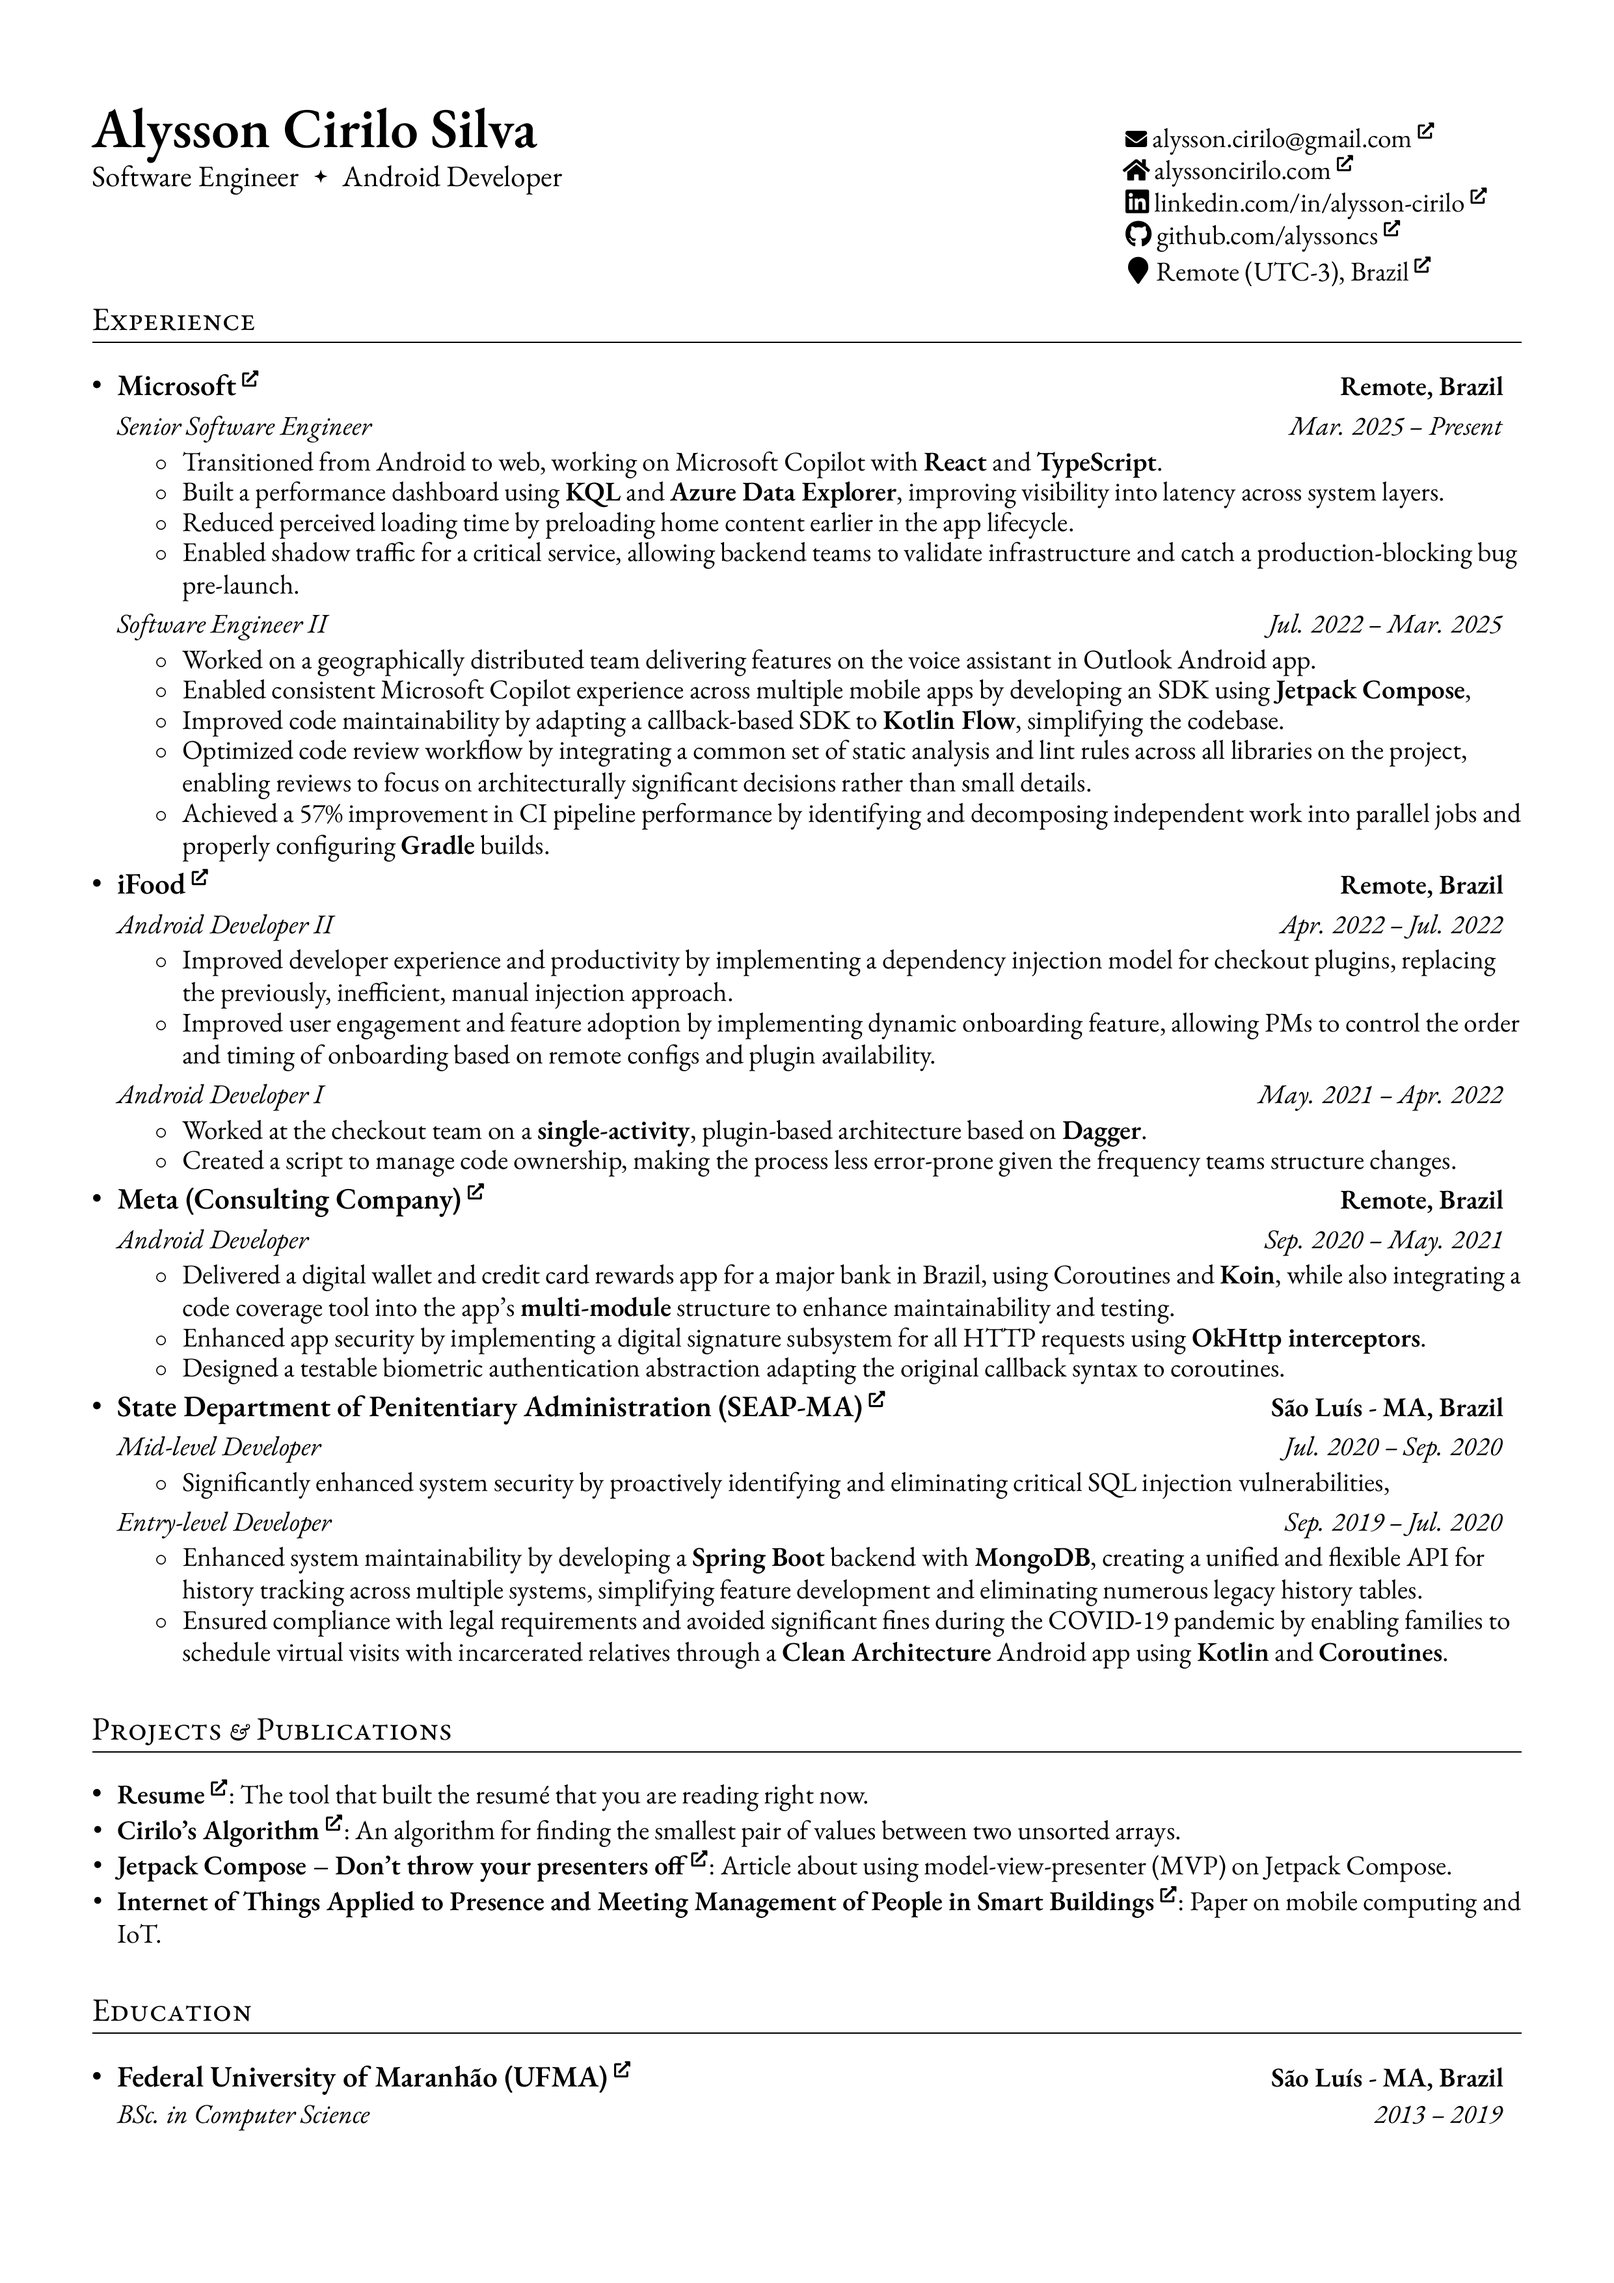
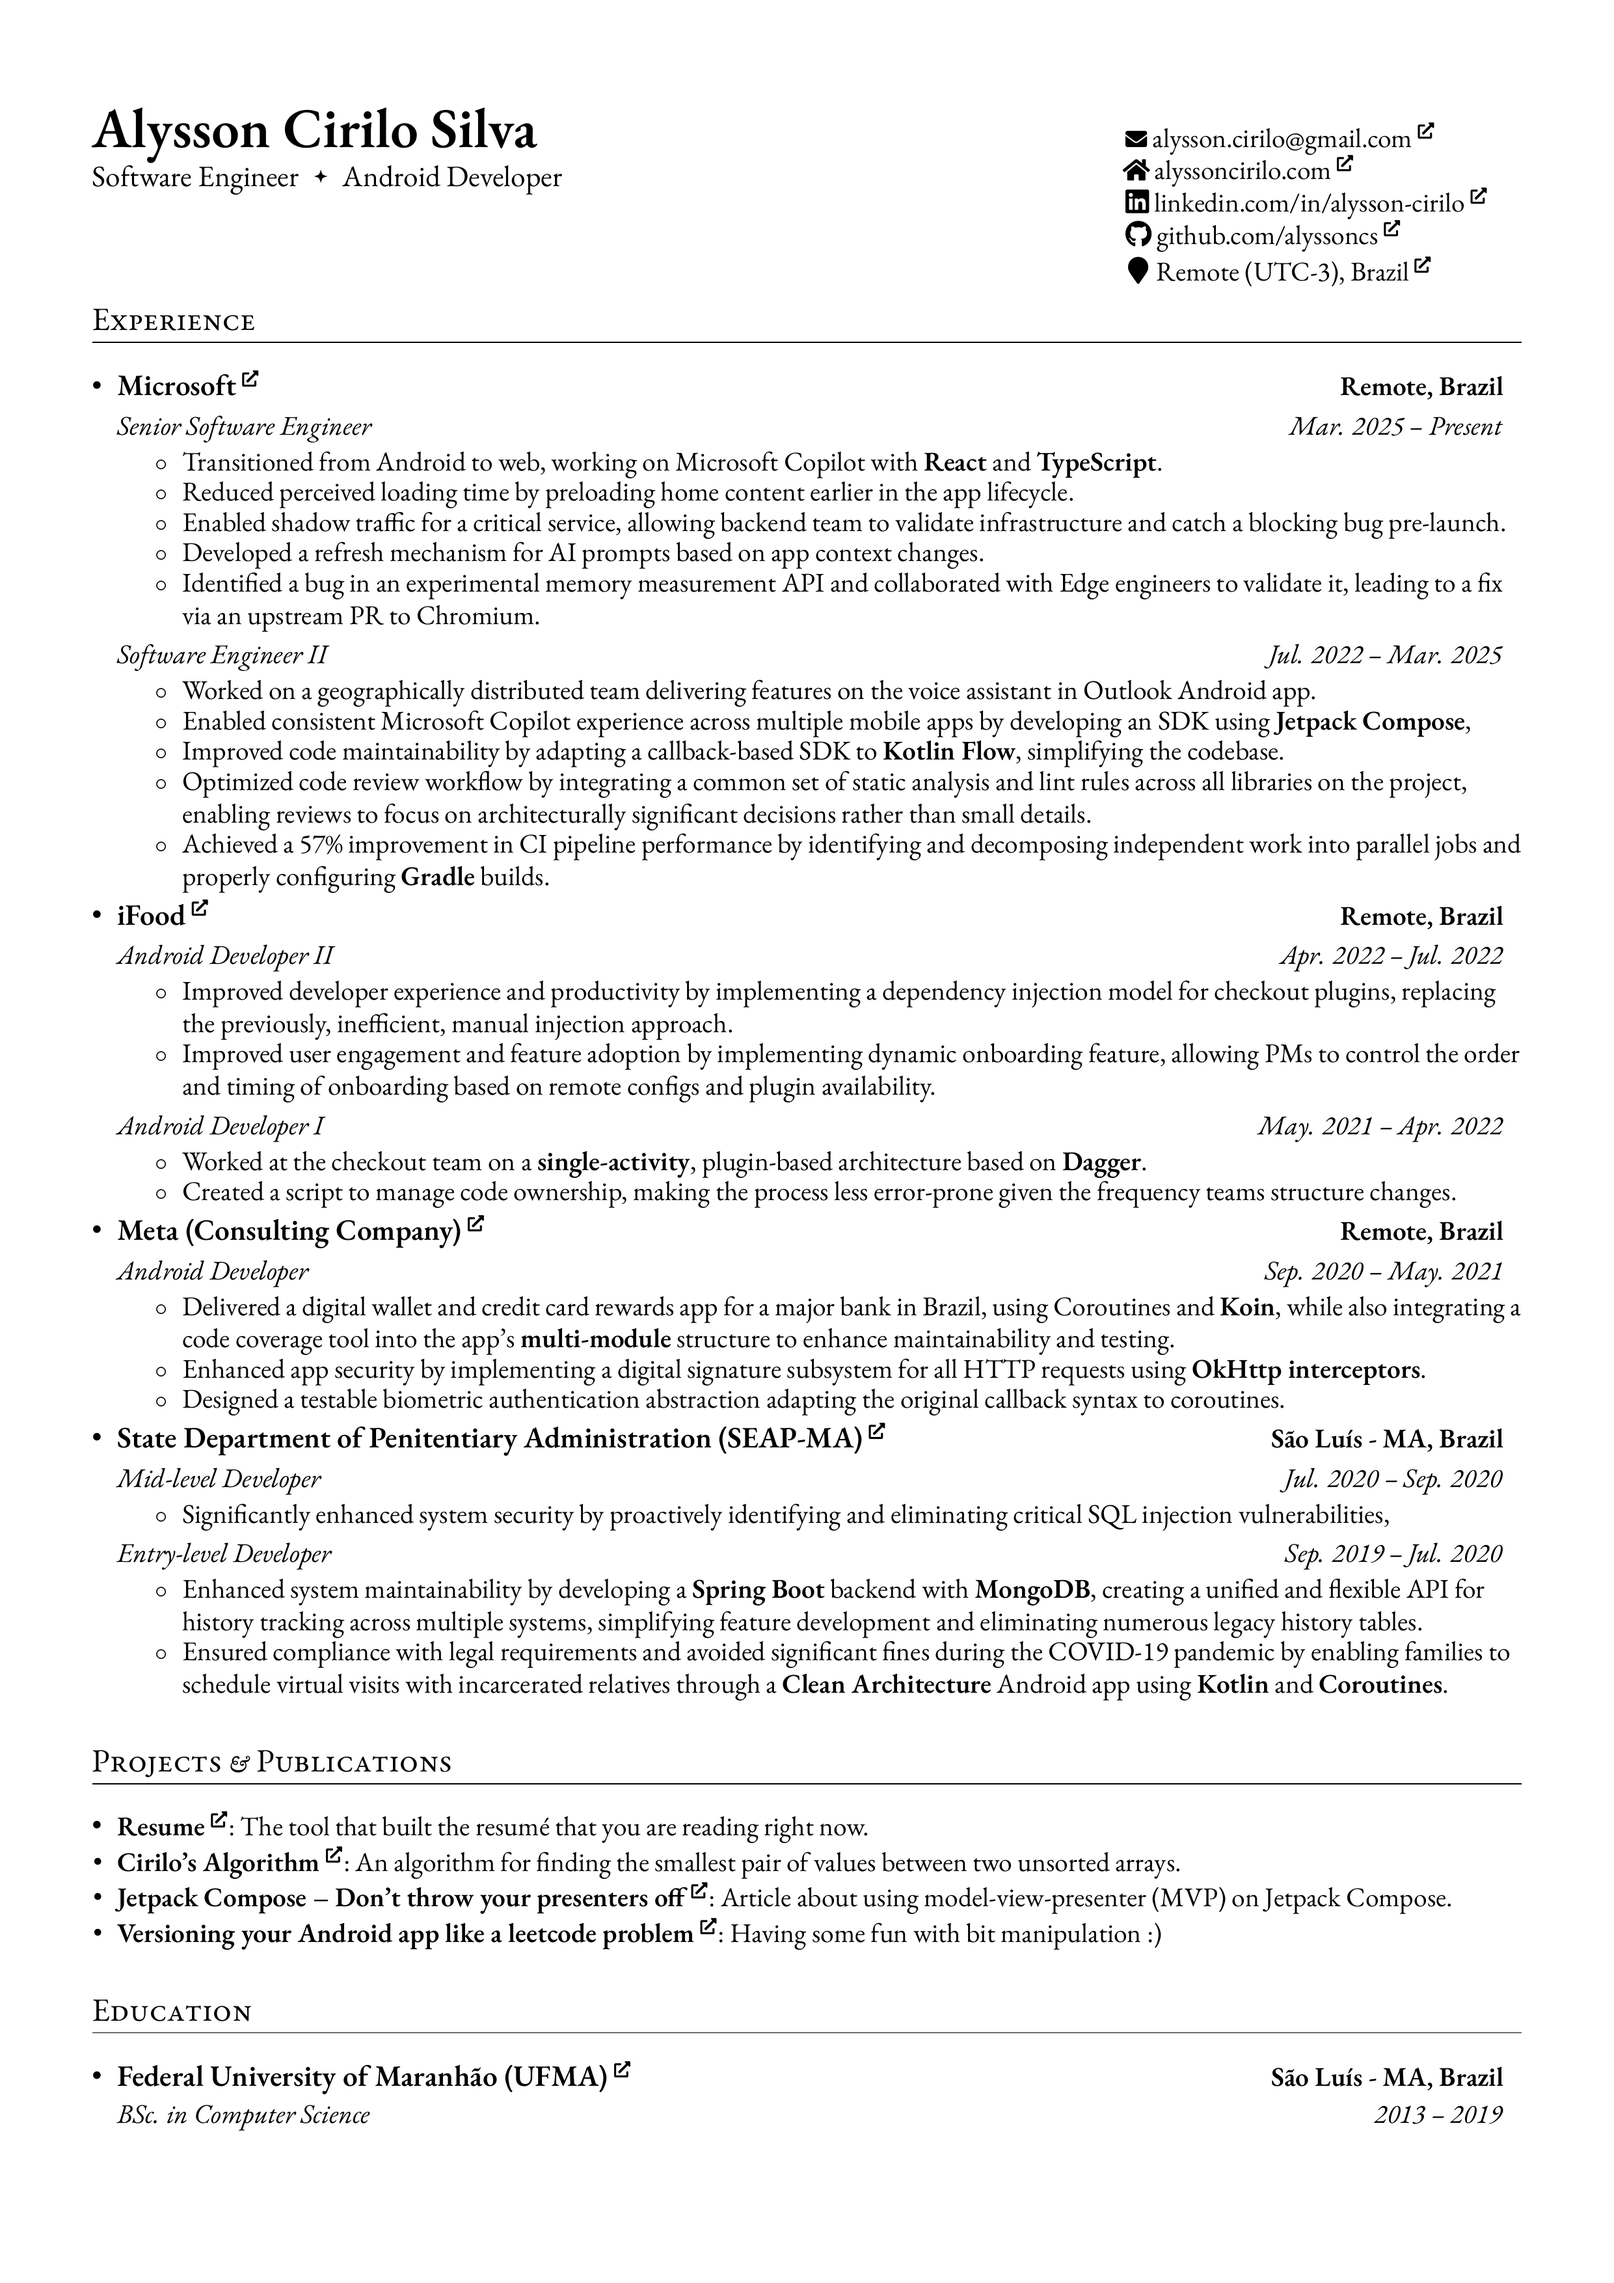
Deploying to resumes from @ alyssoncs/resume@858b8fd5723476d8f6812f712c8ce041579badc0 🚀

Changed region(s): [[0.0621, 0.2175, 0.9311, 0.87]]

diff --git a/alysson-cirilo-markdown-resume.md b/alysson-cirilo-markdown-resume.md
@@ -15,9 +15,10 @@
 #### Senior Software Engineer
 > Mar. 2025 – Present
 - Transitioned from Android to web, working on Microsoft Copilot with **React** and **TypeScript**.
-- Built a performance dashboard using **KQL** and **Azure Data Explorer**, improving visibility into latency across system layers.
 - Reduced perceived loading time by preloading home content earlier in the app lifecycle.
-- Enabled shadow traffic for a critical service, allowing backend teams to validate infrastructure and catch a production-blocking bug pre-launch.
+- Enabled shadow traffic for a critical service, allowing backend team to validate infrastructure and catch a blocking bug pre-launch.
+- Developed a refresh mechanism for AI prompts based on app context changes.
+- Identified a bug in an experimental memory measurement API and collaborated with Edge engineers to validate it, leading to a fix via an upstream PR to Chromium.
 
 #### Software Engineer II
 > Jul. 2022 – Mar. 2025
@@ -65,7 +66,7 @@
 - **[Resume](https://github.com/alyssoncs/resume/)**: The tool that built the resumé that you are reading right now.
 - **[Cirilo's Algorithm](https://alyssoncirilo.com/blog/cirilo-algorithm/)**: An algorithm for finding the smallest pair of values between two unsorted arrays.
 - **[Jetpack Compose – Don't throw your presenters off](https://alyssoncirilo.com/blog/dont-throw-your-presenters-off/)**: Article about using model-view-presenter (MVP) on Jetpack Compose.
-- **[Internet of Things Applied to Presence and Meeting Management of People in Smart Buildings](https://revistas.unifacs.br/index.php/rsc/article/view/6890)**: Paper on mobile computing and IoT.
+- **[Versioning your Android app like a leetcode problem](https://alyssoncirilo.com/blog/versioning-your-android-app-like-a-leetcode-problem/)**: Having some fun with bit manipulation :)
 
 ## Education
 - **[Federal University of Maranhão (UFMA)](https://portalpadrao.ufma.br/site/)**: BSc. in Computer Science (São Luís - MA, Brazil 2013 – 2019)
